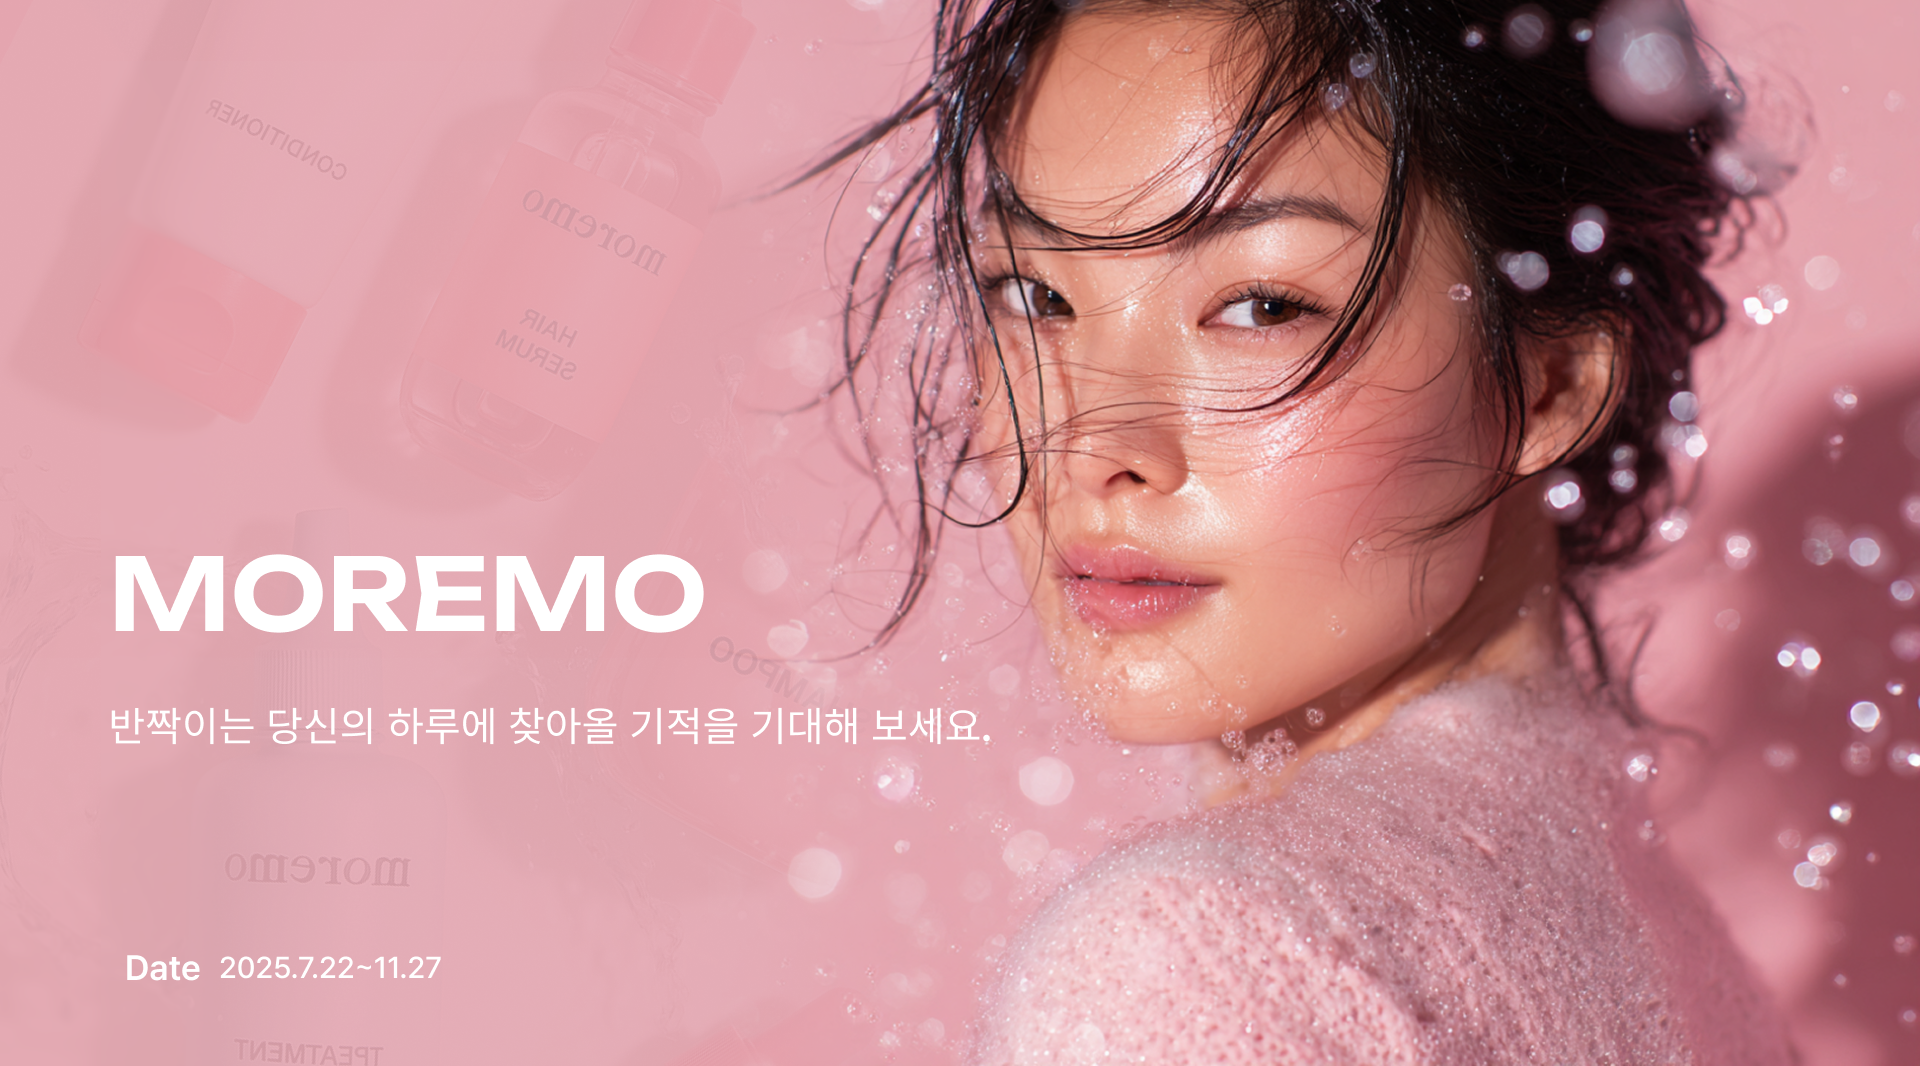
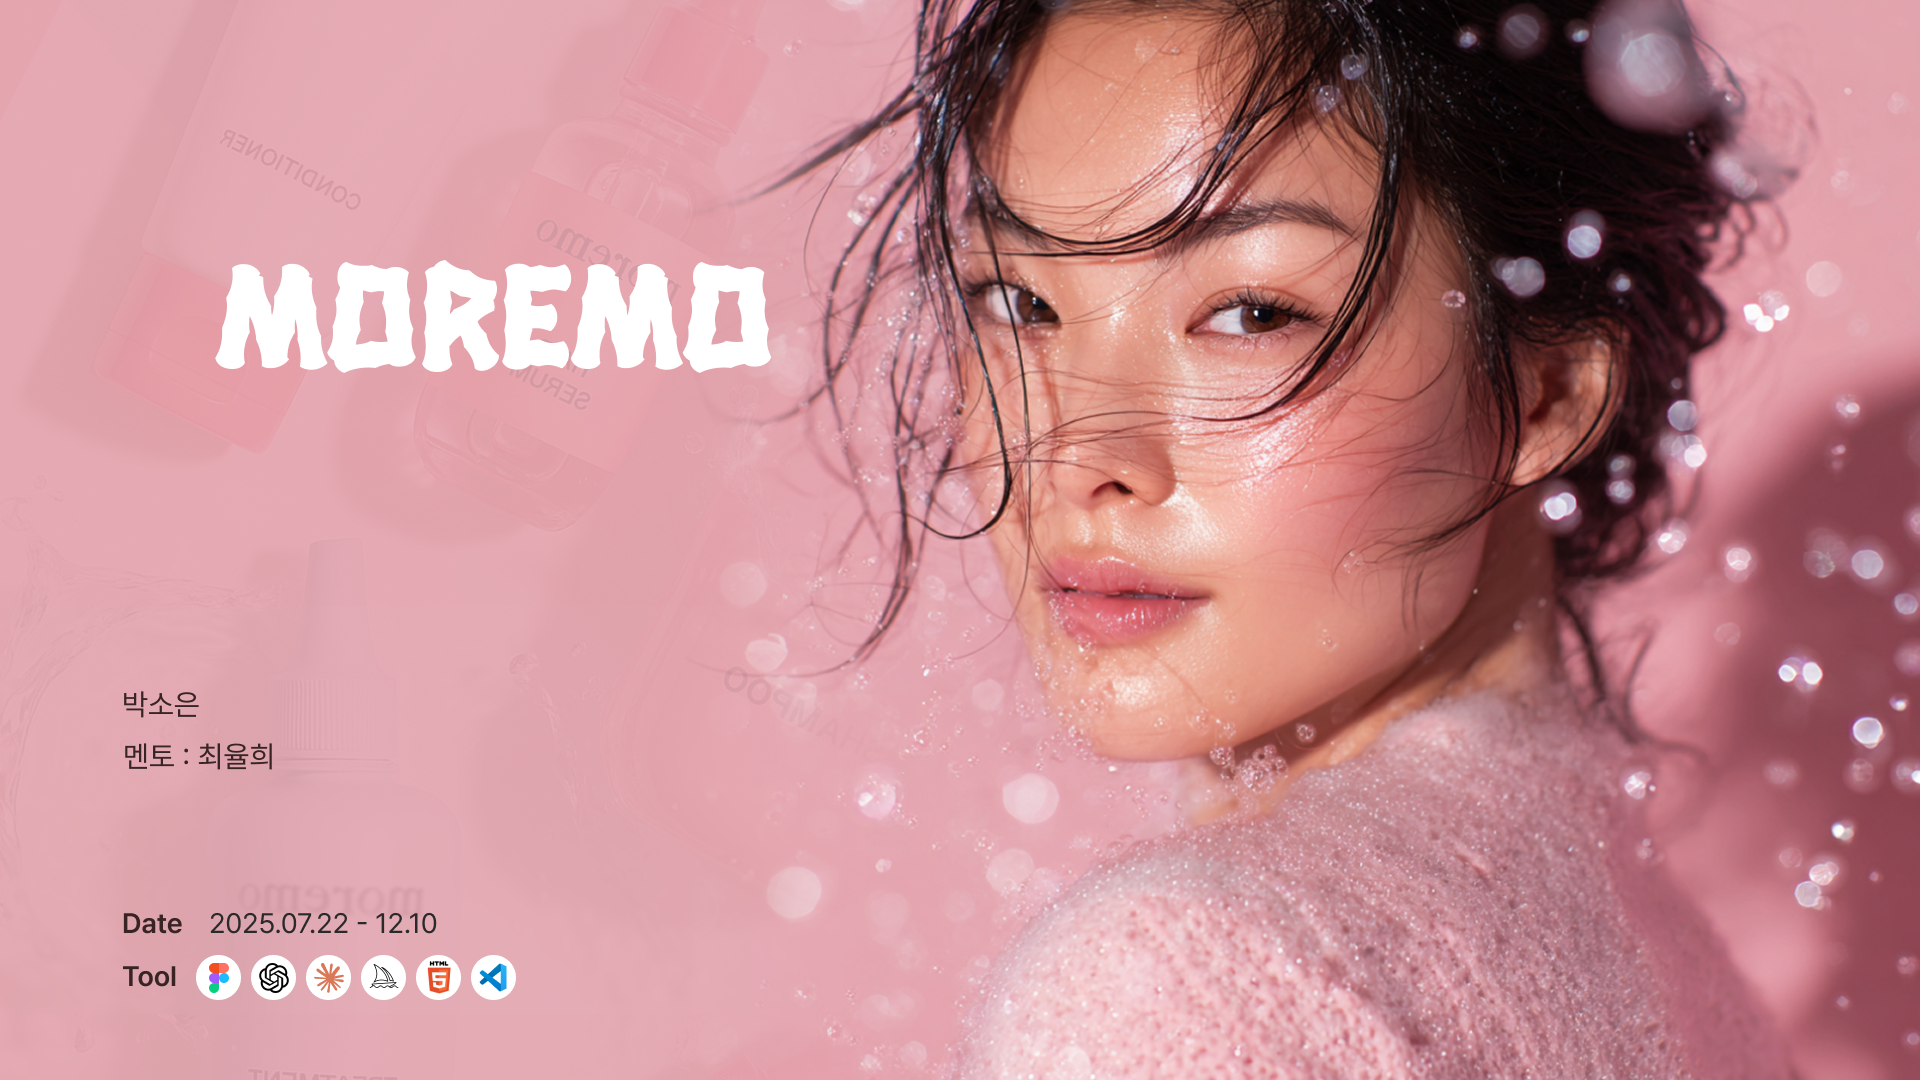
3/7수정

diff --git a/index.html b/index.html
@@ -66,6 +66,7 @@
           <div class="tool_icons anim" data-delay="350">
             <img src="./img/figma.png" alt="figma">
             <img src="./img/antigravity.png" alt="antigravity">
+            <img src="./img/html.png" alt="html">
             <img src="./img/photoshoppng.png" alt="photoshop">
             <img src="./img/ Midjourney.png" alt="Midjourney">
             <img src="./img/chatgpt.png" alt="chatgpt">
@@ -82,6 +83,14 @@
             <div class="skill_item anim_left" data-delay="550">
               <div class="skill_header">
                 <span>Antigravity</span><span class="skill_percent" data-target="85">0%</span>
+              </div>
+              <div class="skill_bar">
+                <div class="skill_fill" data-width="85"></div>
+              </div>
+            </div>
+            <div class="skill_item anim_left" data-delay="550">
+              <div class="skill_header">
+                <span>HTML</span><span class="skill_percent" data-target="85">0%</span>
               </div>
               <div class="skill_bar">
                 <div class="skill_fill" data-width="85"></div>
@@ -238,7 +247,7 @@
           <div class="section_line anim_line" data-delay="300"></div>
           <p class="about_text anim" data-delay="400">
             브랜드 감성을 강화한 비주얼 중심 설계로
-           정체성을<br>재구성한 웹 리뉴얼 프로젝트
+            정체성을<br>재구성한 웹 리뉴얼 프로젝트
           </p>
           <div class="project_features anim" data-delay="550">
             <div class="feature_item"><i class="fas fa-check-circle"></i><span>비주얼 중심 설계</span></div>
@@ -298,9 +307,11 @@
             <span>AI/UX</span>
           </div>
           <div class="project_tags">
-            <a class="anim_pop" data-delay="800" href="https://www.figma.com/proto/8Q8cmPnh8acohEiy9DgRs7/%EA%B0%9C%EC%9D%B8%EC%95%B1---%EC%BD%A9%ED%94%8C?page-id=258%3A1816&node-id=2002-3094&viewport=-25174%2C5157%2C1.18&t=oLoih9sJNW9Qjk7C-1&scaling=min-zoom&content-scaling=fixed&starting-point-node-id=2002%3A3094" target="_blank"><i
-                class="fas fa-globe"></i>프로토타입</a>
-            <a class="anim_pop" data-delay="900" href="https://www.figma.com/deck/jmLYjBc5lBv0pcVepNdlsb" target="_blank">
+            <a class="anim_pop" data-delay="800"
+              href="https://www.figma.com/proto/8Q8cmPnh8acohEiy9DgRs7/%EA%B0%9C%EC%9D%B8%EC%95%B1---%EC%BD%A9%ED%94%8C?page-id=258%3A1816&node-id=2002-3094&viewport=-25174%2C5157%2C1.18&t=oLoih9sJNW9Qjk7C-1&scaling=min-zoom&content-scaling=fixed&starting-point-node-id=2002%3A3094"
+              target="_blank"><i class="fas fa-globe"></i>프로토타입</a>
+            <a class="anim_pop" data-delay="900" href="https://www.figma.com/deck/jmLYjBc5lBv0pcVepNdlsb"
+              target="_blank">
               <i class="fas fa-file-powerpoint"></i>
               기획PPT</a>
           </div>

diff --git a/style.css b/style.css
@@ -856,7 +856,7 @@ body {
 }
 
 .tool_icons img {
-  width: 4vw;
+  width: 3vw;
   height: 3.5vw;
   object-fit: contain;
   border-radius: 0.63vw;
